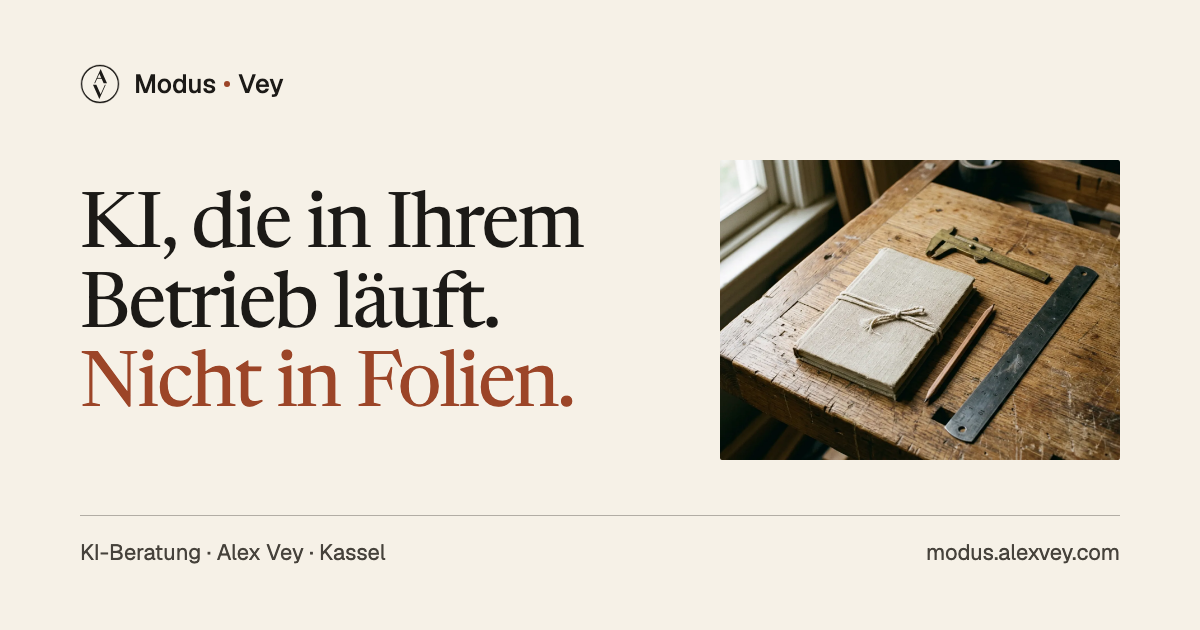
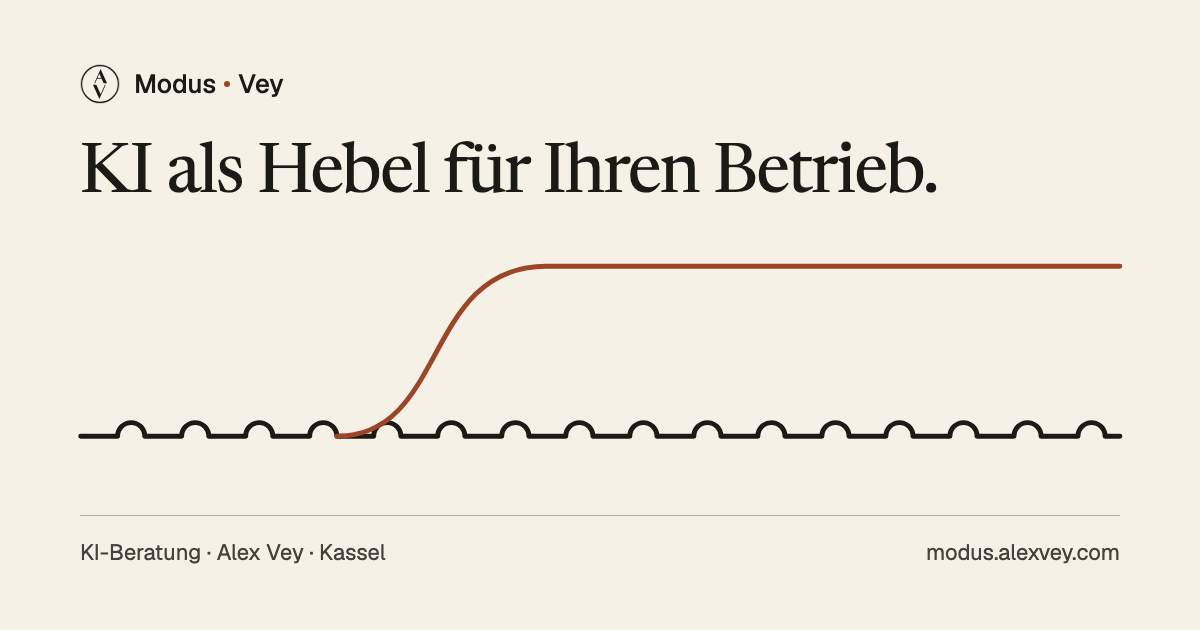
feat(site): rebuild the share image for the lever message
brand/og.html now shows the home headline and the two-lane illustration. og.png is rendered from it at 1200 x 630.

Changed region(s): [[0.0617, 0.2111, 0.9558, 0.754]]

diff --git a/brand/og.html b/brand/og.html
@@ -21,10 +21,12 @@
   .brand { display: flex; align-items: center; gap: 14px; font-family: "Geist", sans-serif; font-weight: 500; font-size: 26px; }
   .brand svg { width: 40px; height: 40px; }
   .brand i { display: inline-block; width: 6px; height: 6px; border-radius: 50%; background: #9c4528; margin: 0 8px; vertical-align: middle; position: relative; top: -2px; }
-  .mid { display: flex; gap: 56px; align-items: center; }
-  .mid img { width: 400px; height: 300px; object-fit: cover; border-radius: 2px; flex: none; }
-  h1 { font-weight: 400; font-size: 76px; line-height: 1.05; letter-spacing: -0.02em; }
-  h1 em { font-style: normal; color: #9c4528; }
+  h1 { font-weight: 400; font-size: 68px; line-height: 1.05; letter-spacing: -0.02em; white-space: nowrap; }
+  .lanes { position: relative; width: 1109px; height: 230px; margin-left: -49px; }
+  .lanes::before, .lanes::after { content: ""; position: absolute; left: 0; top: 0; width: 100%; height: 394px; -webkit-mask-repeat: no-repeat; mask-repeat: no-repeat; -webkit-mask-size: 100% 100%; mask-size: 100% 100%; transform: translateY(-95px); }
+  .lanes::before { background: #1c1a17; -webkit-mask-image: url("../img/spuren-boden.svg"); mask-image: url("../img/spuren-boden.svg"); }
+  .lanes::after { background: #9c4528; -webkit-mask-image: url("../img/spuren-tempo.svg"); mask-image: url("../img/spuren-tempo.svg"); }
+  .lanes { overflow: hidden; }
   .foot { display: flex; justify-content: space-between; align-items: baseline; border-top: 1px solid #1c1a1750; padding-top: 22px; font-family: "Geist", sans-serif; font-size: 22px; color: #46423b; }
 </style>
 </head>
@@ -33,10 +35,8 @@
     <svg viewBox="0 0 24 24" xmlns="http://www.w3.org/2000/svg"><circle cx="12" cy="12" r="11" fill="none" stroke="#1c1a17" stroke-width="0.7"/><circle cx="12" cy="12" r="11.5" fill="none" stroke="#1c1a17" stroke-width="0.42" opacity="0.4"/><path d="M8.548 11.6 L12.38 2.978 L16.212 11.6 L14.188 11.6 L11.62 5.822 L9.052 11.6 Z" fill="#1c1a17"/><path d="M7.788 12.4 L11.62 21.022 L15.452 12.4 L14.948 12.4 L12.38 18.178 L9.812 12.4 Z" fill="#1c1a17"/><path d="M10.144 8.326 L13.856 8.326 L13.856 8.826 L10.144 8.826 Z" fill="#1c1a17"/></svg>
     <span>Modus<i></i>Vey</span>
   </div>
-  <div class="mid">
-    <h1>KI, die in Ihrem Betrieb läuft. <em>Nicht in Folien.</em></h1>
-    <img src="../img/hero.webp" alt="" />
-  </div>
+  <h1>KI als Hebel für Ihren Betrieb.</h1>
+  <div class="lanes" role="img" aria-label="Zwei Spuren: eine Linie über Bremsschwellen, eine zweite verlässt sie und läuft frei"></div>
   <div class="foot"><span>KI-Beratung · Alex Vey · Kassel</span><span>modus.alexvey.com</span></div>
 </body>
 </html>

diff --git a/DESIGN.md b/DESIGN.md
@@ -17,7 +17,8 @@ Dial (sub pages): ENERGY 1 / RHYTHM 2 / MOTION 1
 - Margin notes: short side notes carry the honest "no" and the risk statements. They move under the text on narrow screens.
 - Offer rows: the three modules are plain rows with duration, not priced cards. Reason: there are no prices on the site, so nothing needs a card.
 - Proof: no references exist yet, so no page shows any. Examples are tagged "Beispiel". Reason: fake proof breaks the honesty claim.
-- Photos: AI-generated still lifes of workshop details in `img/`, no people, no brands, labelled "KI-generiertes Bild". The sub pages use them. `img/hero.webp` and `img/arbeitsweise.webp` are used only by `brand/og.html` since the home page changed. Real photos replace them when they exist.
+- Photos: AI-generated still lifes of workshop details in `img/`, no people, no brands, labelled "KI-generiertes Bild". The sub pages use them. `img/hero.webp` and `img/arbeitsweise.webp` are unused since the home page and `brand/og.png` changed. Real photos replace them when they exist.
+- Share image: `brand/og.png` shows the home headline and the two-lane illustration, rendered from `brand/og.html` with headless Chrome at 1200 x 630. Reason: the preview carries the same one statement as the home page.
 - Background: flat color, no grid or texture. Reason: the map identity is gone, so the grid would have no purpose.
 - Motion: one short rise on the hero text. It stops under `prefers-reduced-motion`.
 - Mobile: header wraps, tables scroll inside their own wrapper, no horizontal page scroll.
